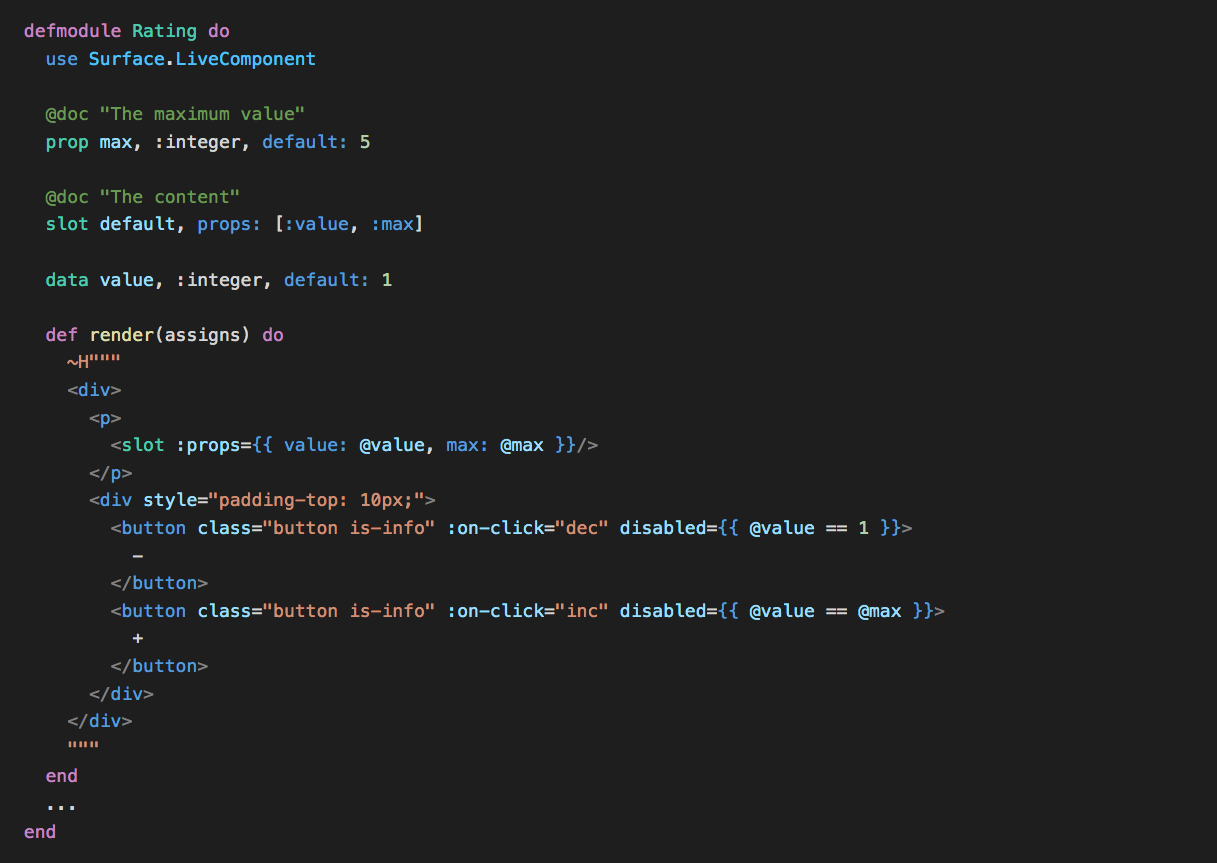
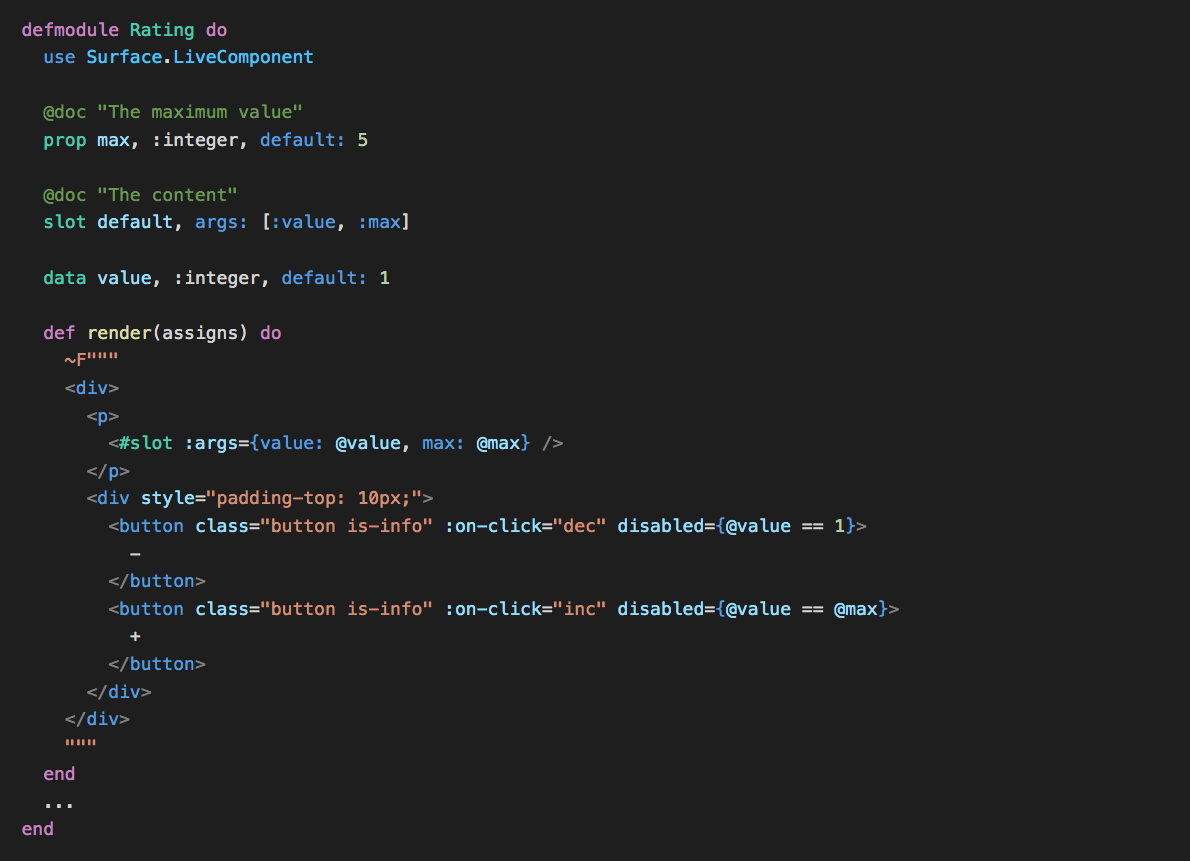
Update CHANGELOG and replace image

diff --git a/CHANGELOG.md b/CHANGELOG.md
@@ -1,5 +1,9 @@
 # Change Log
 
+### v0.7.0: 17 Jun 2021
+
+- Update syntax to Surface `v0.5`
+
 ### v0.6.0: 06 Oct 2020
 
 - Add syntax highlighting for `prop`
